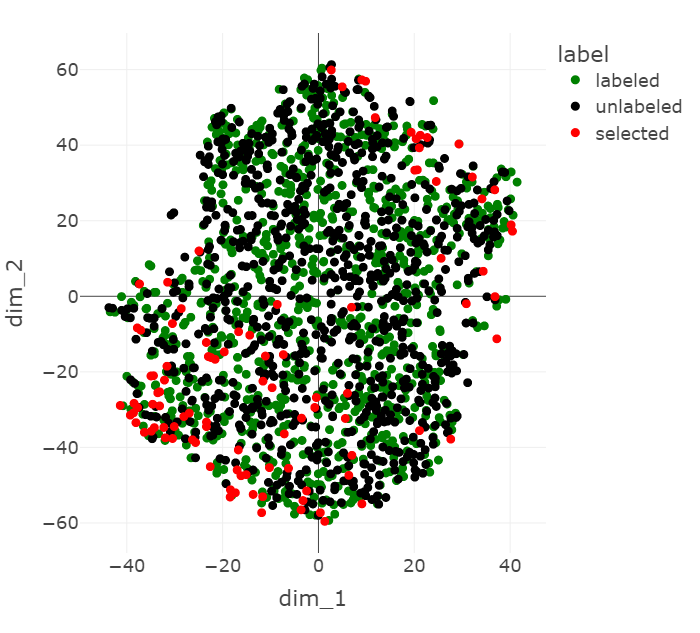
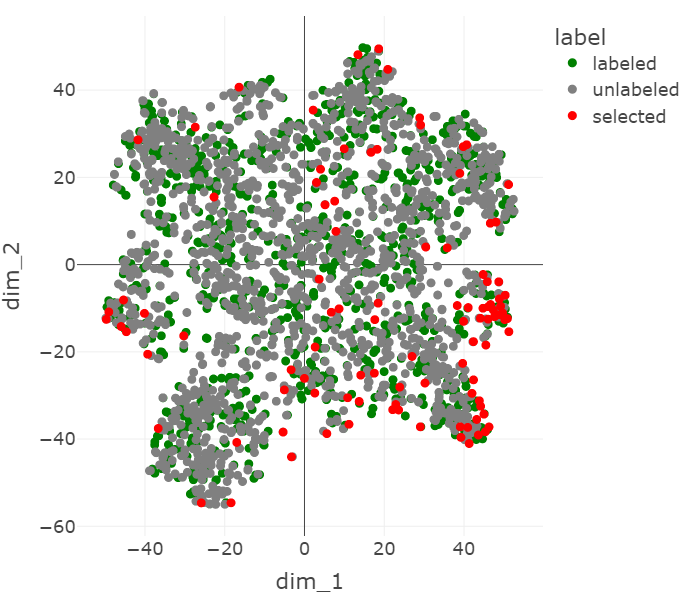
Fixed graphs and updated commentary

diff --git a/papers/godwin_zain/paper.rst b/papers/godwin_zain/paper.rst
@@ -407,9 +407,10 @@ was 7085s for core-set and 7209s for loss prediction.
 
 To investigate the qualitative difference between the VAE and non-VAE approaches, 
 we performed an additional experiment to visualize an example of core-set selection. 
-We first trained the ResNet-18 with the same hyperparameter settings on 1000 initial labels,
-then randomly selected 900 unlabeled points from which to label 100 points.
-These smaller sizes were chosen to promote visual clarity in the output graphs.
+We first train the ResNet-18 with the same hyperparameter settings on 1000 initial labels
+from the ChestMNIST dataset, then randomly choose 1556 (5%) of the unlabeled points 
+from which to select 100 points to label. These smaller sizes were chosen to promote visual 
+clarity in the output graphs.
 
 We use t-SNE (:cite:`van2008visualizing`) dimensionality reduction to show the ResNet
 features of the labeled set, the unlabeled set, and the points chosen to be labeled
@@ -419,13 +420,13 @@ by core-set.
    :scale: 50%
    :figclass: bht
 
-   A t-SNE visualization of the points chosen by core-set. :label:`tsne`
+   A t-SNE visualization of the ChestMNIST points chosen by core-set. :label:`tsne`
 
 .. figure:: vae_tsne.png
    :scale: 50%
    :figclass: bht
 
-   A t-SNE visualization of the points chosen by core-set when the ResNet features are
+   A t-SNE visualization of the ChestMNIST points chosen by core-set when the ResNet features are
    augmented with VAE features. :label:`vaetsne`
 
 Discussion
@@ -438,12 +439,21 @@ on the MNIST dataset at 21000 labels.
 
 The t-SNE visualizations in Figures :ref:`tsne` and :ref:`vaetsne` show some 
 of the influence that the VAE features have on the core-set selection process.
-In :ref:`tsne`, the selected points tend to be more clustered at the outer
-ends of the latent space, while in :ref:`vaetsne` they appear more spread out.
-This appears to mirror the transformation of the labeled set, which is more spread out 
-without the VAE features, but becomes condensed in the center when they are introduced.
-This may be due to the VAE producing a more homogenized representation than the 
-ResNet, since its optimization goal is reconstruction rather than classification.
+In :ref:`tsne`, the selected points tend to be more spread out, while in 
+:ref:`vaetsne` they cluster at one edge. This appears to mirror the transformation 
+of the rest of the data, which is more spread out without the VAE features, but becomes 
+condensed in the center when they are introduced, approaching the shape of a Gaussian
+distribution.
+
+It seems that with the added VAE features, the selected points are further out of
+distribution in the latent space. This makes sense because points tend to be more 
+sparse at the tails of a Guassian distribution and core-set prioritizes points
+that are well-isolated from other points.
+
+One reason for the lack of performance improvement may be the homogeneous nature of
+the VAE, where the optimization goal is reconstruction rather than 
+classification. This could be improved by using a multimodal prior in the VAE, which
+may do a better job of modeling relevant differences between points.
 
 Conclusion
 ==========
@@ -457,7 +467,7 @@ change in the task model latent space. Though this did not result
 in superior point selections in our case, it is of interest whether different
 approaches to latent space augmentation in active learning may fare better.
 
-Future work may explore the use of conditional VAEs in a similar
-application, since a VAE trained on the available labeled data
+Future work may explore the use of class-conditional VAEs in a similar
+application, since a VAE that can utilize the available class labels
 may produce more effective representations, and it could be retrained
 along with the task model after each labeling iteration.
